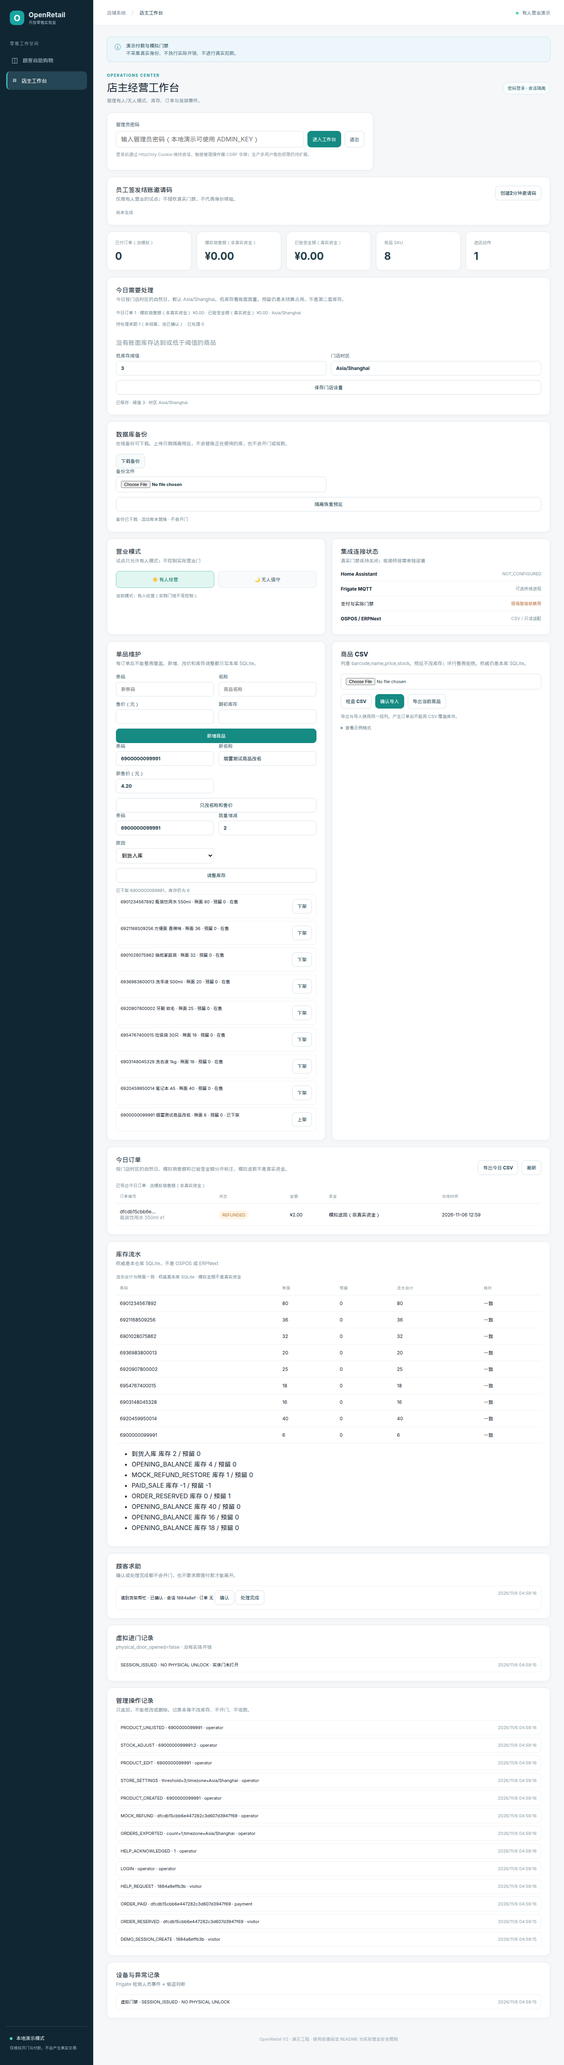
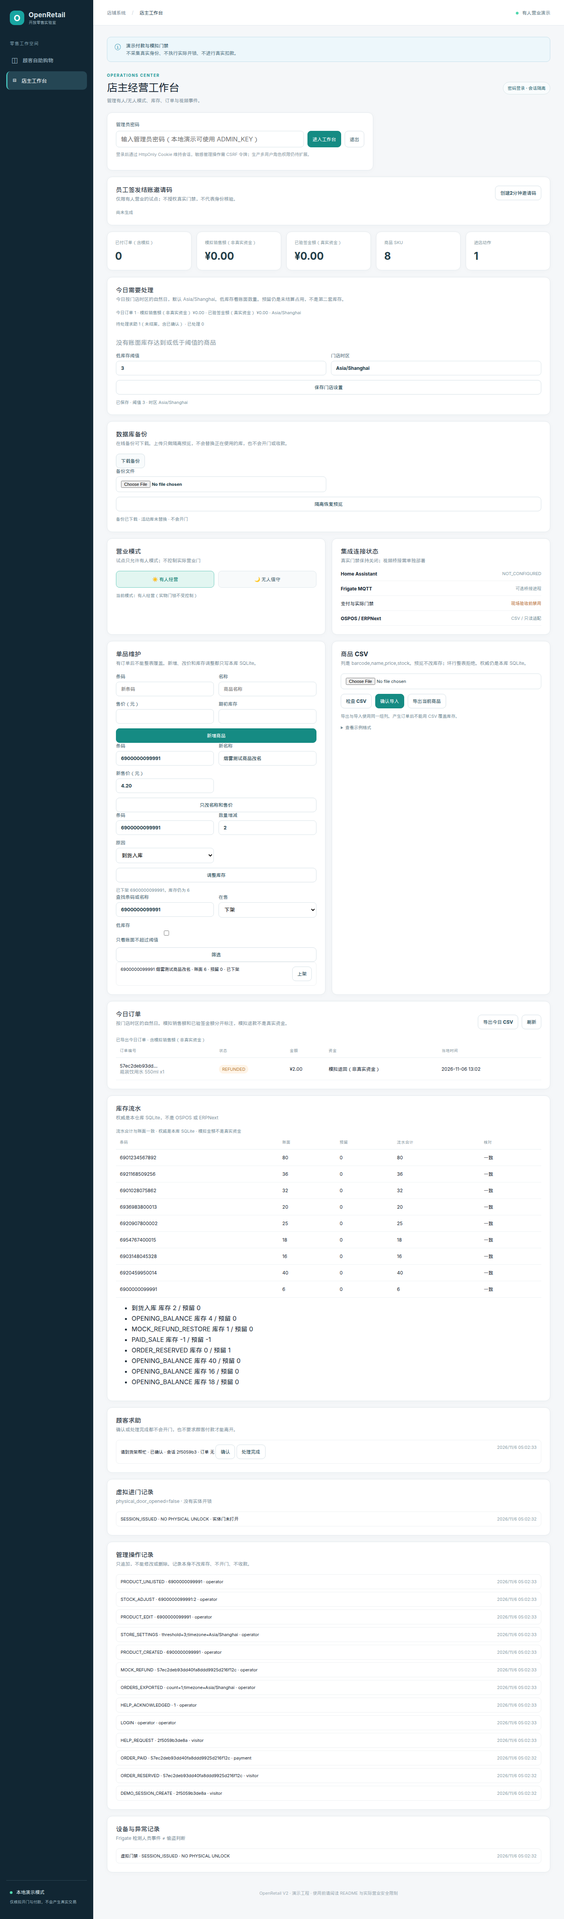
Let staff search and filter the admin catalog without changing stock.
Barcode or name search combines with listed, unlisted, and low-stock filters on the existing product list.

diff --git a/web/app.js b/web/app.js
@@ -42,7 +42,7 @@ async function showEntryStatus(){const status=await api('/api/entry/status',{gue
 async function createOrder(){if(!state.token)throw Error('先创建访客会话');const req={request_id:(crypto.randomUUID?.()||('demo-'+Date.now()+'-'+Math.random())),lines:[...state.cart].map(([product_id,quantity])=>({product_id,quantity}))};const r=await api('/api/orders',{method:'POST',body:req,guest:true});state.orderId=r.id;$('cancel-order-btn').disabled=false;$('pay-btn').disabled=state.paymentProvider==='DISABLED';$('payment-qr').hidden=true;showPay(r);await refreshMine();return r}
 async function confirmMock(){const r=await api('/api/payments/mock-confirm',{method:'POST',body:{order_id:state.orderId},guest:true});showPay(r);if(r.status==='PAID'){state.cart.clear();state.orderId='';$('cancel-order-btn').disabled=true;$('pay-btn').disabled=true;await loadProducts()}await refreshMine();return r}
 function fundLabel(order){if(order.status==='PAID'&&order.provider==='MOCK_NOT_REAL_MONEY')return '模拟销售额';if(Number(order.verified)===1)return '已验签真实资金';if(order.status==='REFUNDED'&&order.provider==='MOCK_NOT_REAL_MONEY')return '模拟退回';return '未收款'}
-async function adminRefresh(){if(!state.csrf)return;const [overview,orders,events,ledger,help,catalog,audit]=await Promise.all([api('/api/admin/overview',{admin:true}),api('/api/admin/orders?today=1',{admin:true}),api('/api/admin/events',{admin:true}),api('/api/admin/inventory-ledger',{admin:true}),api('/api/admin/help-requests',{admin:true}),api('/api/admin/products',{admin:true}),api('/api/admin/audit',{admin:true})]);$('admin-body').hidden=false;$('m-orders').textContent=overview.paid_orders;$('m-sales').textContent=money(overview.simulated_revenue_cents);$('m-real').textContent=money(overview.verified_revenue_cents);$('today-summary').textContent='今日订单 '+overview.today_order_count+' · 模拟销售额（非真实资金） '+money(overview.today_simulated_revenue_cents)+' · 已验签金额（真实资金） '+money(overview.today_verified_revenue_cents)+' · '+overview.store_timezone;$('low-stock-threshold').value=overview.low_stock_threshold;$('store-timezone').value=overview.store_timezone;$('admin-catalog').innerHTML=catalog.map(p=>`<div class="event"><span>${esc(p.barcode)} ${esc(p.name)} · 账面 ${p.stock} · 预留 ${p.reserved_stock} · ${p.active?'在售':'已下架'}</span><button class="btn secondary" type="button" data-listing-id="${p.id}" data-listing-barcode="${esc(p.barcode)}" data-listing-active="${p.active?0:1}">${p.active?'下架':'上架'}</button></div>`).join('')||'<p class="muted">没有商品</p>';$('audit-list').innerHTML=(audit.events||[]).map(e=>`<div class="event"><span>${esc(e.action)} · ${esc(e.detail)} · ${esc(e.actor)}</span><time>${time(e.created_at)}</time></div>`).join('')||'<p class="muted">没有操作记录</p>';$('help-attention').textContent='待处理求助 '+overview.help_needs_attention+'（未结案，含已确认） · 已处理 '+overview.help_resolved;$('low-stock-list').innerHTML=(overview.low_stock||[]).map(p=>`<div class="event"><span>${esc(p.barcode)} ${esc(p.name)} · 账面 ${p.stock} · 预留 ${p.reserved_stock} · 可售 ${p.available_stock}</span><time>阈值 ${overview.low_stock_threshold}</time></div>`).join('')||'<p class="muted">没有账面库存达到或低于阈值的商品</p>';$('m-products').textContent=overview.products;$('m-entries').textContent=overview.door_events;$('mode-info').textContent='当前模式：'+(overview.mode==='UNATTENDED'?'无人值守':'有人经营')+'（实物门锁不受控制）';$('ha-state').textContent=overview.home_assistant.status;$('mode-staffed').classList.toggle('selected',overview.mode==='STAFFED');$('mode-unattended').classList.toggle('selected',overview.mode==='UNATTENDED');const todayOrders=orders.orders||[];$('order-table').innerHTML=todayOrders.map(o=>{const refund=o.status==='PAID'&&o.provider==='MOCK_NOT_REAL_MONEY'&&Number(o.verified)!==1?`<button class="btn secondary" type="button" data-mock-refund="${esc(o.id)}">模拟退款</button>`:'';const label=o.money_label==='MOCK_NOT_REAL_MONEY'?'模拟销售额（非真实资金）':o.money_label==='VERIFIED_REAL_MONEY'?'已验签金额（真实资金）':o.money_label==='MOCK_REFUND_NOT_REAL_MONEY'?'模拟退回（非真实资金）':fundLabel(o);return `<tr><td title="${esc(o.id)}">${esc(o.id.slice(0,12))}…<div class="muted">${esc(o.items||'')}</div></td><td><span class="status ${o.status==='PAID'?'paid':''}">${esc(o.status)}</span></td><td>${money(o.total_cents)}</td><td>${esc(label)}</td><td>${esc(o.local_time||'')}</td><td>${refund}</td></tr>`}).join('')||'<tr><td colspan="6">今日没有订单</td></tr>';$('ledger-balance').textContent=(ledger.balanced?'流水合计与账面一致':'流水与账面不一致，需要人工核对')+' · 权威是本库 SQLite · 模拟金额不是真实资金';$('ledger-table').innerHTML=ledger.products.map(p=>`<tr><td>${esc(p.barcode)}</td><td>${p.stock}</td><td>${p.reserved_stock}</td><td>${p.ledger_stock}</td><td>${p.balanced?'一致':'不一致'}</td></tr>`).join('')||'<tr><td colspan="5">没有商品</td></tr>';$('ledger-moves').innerHTML=ledger.movements.slice(0,8).map(m=>`<li>${esc(m.reason)} 库存 ${m.stock_delta} / 预留 ${m.reserved_delta}</li>`).join('');const helpLabel={OPEN:'待处理',ACKNOWLEDGED:'已确认',RESOLVED:'已处理'};$('help-list').innerHTML=(help.requests||[]).map(h=>{const buttons=h.status==='RESOLVED'?'':`<button class="btn secondary" type="button" data-help-id="${esc(h.id)}" data-help-status="ACKNOWLEDGED">确认</button> <button class="btn secondary" type="button" data-help-id="${esc(h.id)}" data-help-status="RESOLVED">处理完成</button>`;return `<div class="event"><span>${esc(h.message)} · ${esc(helpLabel[h.status]||h.status)} · 会话 ${esc((h.session_id||'无').slice(0,8))} · 订单 ${esc((h.order_id||'无').slice(0,8))} ${buttons}</span><time>${time(h.created_at)}</time></div>`}).join('')||'<p class="muted">没有求助</p>';$('door-lock-note').textContent=events.physical_door_opened===false?'physical_door_opened=false · 没有实体开锁':'门状态异常';$('door-event-list').innerHTML=(events.door||[]).map(e=>`<div class="event"><span>${esc(e.result)} · ${esc(e.detail)} · 实体门未打开</span><time>${time(e.created_at)}</time></div>`).join('')||'<p class="muted">没有虚拟进门记录</p>';const incident=events.frigate.map(e=>({name:'Frigate 人员事件 · '+e.camera+' · '+e.event_type,t:e.created_at})),doors=events.door.map(e=>({name:'虚拟门禁 · '+e.result+' · '+e.detail,t:e.created_at}));$('event-list').innerHTML=[...incident,...doors].sort((a,b)=>b.t-a.t).slice(0,15).map(e=>`<div class="event"><span>${esc(e.name)}</span><time>${time(e.t)}</time></div>`).join('')||'<p class="muted">暂无设备事件</p>'}
+async function adminRefresh(){if(!state.csrf)return;const [overview,orders,events,ledger,help,catalog,audit]=await Promise.all([api('/api/admin/overview',{admin:true}),api('/api/admin/orders?today=1',{admin:true}),api('/api/admin/events',{admin:true}),api('/api/admin/inventory-ledger',{admin:true}),api('/api/admin/help-requests',{admin:true}),api(catalogQuery(),{admin:true}),api('/api/admin/audit',{admin:true})]);$('admin-body').hidden=false;$('m-orders').textContent=overview.paid_orders;$('m-sales').textContent=money(overview.simulated_revenue_cents);$('m-real').textContent=money(overview.verified_revenue_cents);$('today-summary').textContent='今日订单 '+overview.today_order_count+' · 模拟销售额（非真实资金） '+money(overview.today_simulated_revenue_cents)+' · 已验签金额（真实资金） '+money(overview.today_verified_revenue_cents)+' · '+overview.store_timezone;$('low-stock-threshold').value=overview.low_stock_threshold;$('store-timezone').value=overview.store_timezone;$('admin-catalog').innerHTML=catalog.map(p=>`<div class="event"><span>${esc(p.barcode)} ${esc(p.name)} · 账面 ${p.stock} · 预留 ${p.reserved_stock} · ${p.active?'在售':'已下架'}</span><button class="btn secondary" type="button" data-listing-id="${p.id}" data-listing-barcode="${esc(p.barcode)}" data-listing-active="${p.active?0:1}">${p.active?'下架':'上架'}</button></div>`).join('')||'<p class="muted">没有商品</p>';$('audit-list').innerHTML=(audit.events||[]).map(e=>`<div class="event"><span>${esc(e.action)} · ${esc(e.detail)} · ${esc(e.actor)}</span><time>${time(e.created_at)}</time></div>`).join('')||'<p class="muted">没有操作记录</p>';$('help-attention').textContent='待处理求助 '+overview.help_needs_attention+'（未结案，含已确认） · 已处理 '+overview.help_resolved;$('low-stock-list').innerHTML=(overview.low_stock||[]).map(p=>`<div class="event"><span>${esc(p.barcode)} ${esc(p.name)} · 账面 ${p.stock} · 预留 ${p.reserved_stock} · 可售 ${p.available_stock}</span><time>阈值 ${overview.low_stock_threshold}</time></div>`).join('')||'<p class="muted">没有账面库存达到或低于阈值的商品</p>';$('m-products').textContent=overview.products;$('m-entries').textContent=overview.door_events;$('mode-info').textContent='当前模式：'+(overview.mode==='UNATTENDED'?'无人值守':'有人经营')+'（实物门锁不受控制）';$('ha-state').textContent=overview.home_assistant.status;$('mode-staffed').classList.toggle('selected',overview.mode==='STAFFED');$('mode-unattended').classList.toggle('selected',overview.mode==='UNATTENDED');const todayOrders=orders.orders||[];$('order-table').innerHTML=todayOrders.map(o=>{const refund=o.status==='PAID'&&o.provider==='MOCK_NOT_REAL_MONEY'&&Number(o.verified)!==1?`<button class="btn secondary" type="button" data-mock-refund="${esc(o.id)}">模拟退款</button>`:'';const label=o.money_label==='MOCK_NOT_REAL_MONEY'?'模拟销售额（非真实资金）':o.money_label==='VERIFIED_REAL_MONEY'?'已验签金额（真实资金）':o.money_label==='MOCK_REFUND_NOT_REAL_MONEY'?'模拟退回（非真实资金）':fundLabel(o);return `<tr><td title="${esc(o.id)}">${esc(o.id.slice(0,12))}…<div class="muted">${esc(o.items||'')}</div></td><td><span class="status ${o.status==='PAID'?'paid':''}">${esc(o.status)}</span></td><td>${money(o.total_cents)}</td><td>${esc(label)}</td><td>${esc(o.local_time||'')}</td><td>${refund}</td></tr>`}).join('')||'<tr><td colspan="6">今日没有订单</td></tr>';$('ledger-balance').textContent=(ledger.balanced?'流水合计与账面一致':'流水与账面不一致，需要人工核对')+' · 权威是本库 SQLite · 模拟金额不是真实资金';$('ledger-table').innerHTML=ledger.products.map(p=>`<tr><td>${esc(p.barcode)}</td><td>${p.stock}</td><td>${p.reserved_stock}</td><td>${p.ledger_stock}</td><td>${p.balanced?'一致':'不一致'}</td></tr>`).join('')||'<tr><td colspan="5">没有商品</td></tr>';$('ledger-moves').innerHTML=ledger.movements.slice(0,8).map(m=>`<li>${esc(m.reason)} 库存 ${m.stock_delta} / 预留 ${m.reserved_delta}</li>`).join('');const helpLabel={OPEN:'待处理',ACKNOWLEDGED:'已确认',RESOLVED:'已处理'};$('help-list').innerHTML=(help.requests||[]).map(h=>{const buttons=h.status==='RESOLVED'?'':`<button class="btn secondary" type="button" data-help-id="${esc(h.id)}" data-help-status="ACKNOWLEDGED">确认</button> <button class="btn secondary" type="button" data-help-id="${esc(h.id)}" data-help-status="RESOLVED">处理完成</button>`;return `<div class="event"><span>${esc(h.message)} · ${esc(helpLabel[h.status]||h.status)} · 会话 ${esc((h.session_id||'无').slice(0,8))} · 订单 ${esc((h.order_id||'无').slice(0,8))} ${buttons}</span><time>${time(h.created_at)}</time></div>`}).join('')||'<p class="muted">没有求助</p>';$('door-lock-note').textContent=events.physical_door_opened===false?'physical_door_opened=false · 没有实体开锁':'门状态异常';$('door-event-list').innerHTML=(events.door||[]).map(e=>`<div class="event"><span>${esc(e.result)} · ${esc(e.detail)} · 实体门未打开</span><time>${time(e.created_at)}</time></div>`).join('')||'<p class="muted">没有虚拟进门记录</p>';const incident=events.frigate.map(e=>({name:'Frigate 人员事件 · '+e.camera+' · '+e.event_type,t:e.created_at})),doors=events.door.map(e=>({name:'虚拟门禁 · '+e.result+' · '+e.detail,t:e.created_at}));$('event-list').innerHTML=[...incident,...doors].sort((a,b)=>b.t-a.t).slice(0,15).map(e=>`<div class="event"><span>${esc(e.name)}</span><time>${time(e.t)}</time></div>`).join('')||'<p class="muted">暂无设备事件</p>'}
 async function run(fn){try{await fn()}catch(e){toast(e.message);console.error(e)}}
 document.addEventListener('click',e=>{const refund=e.target.closest('[data-mock-refund]');if(refund){run(async()=>{const r=await api('/api/admin/orders/'+refund.dataset.mockRefund+'/mock-refund',{admin:true,method:'POST'});toast(r.real_money?'异常：模拟退款不应产生真实资金':'模拟退款已回补库存，不是微信退款');await adminRefresh();await loadProducts()});return}const listing=e.target.closest('[data-listing-id]');if(listing){run(async()=>{const r=await api('/api/admin/products/'+listing.dataset.listingId+'/listing',{admin:true,method:'POST',body:{active:listing.dataset.listingActive==='1'}});if(r.stock_changed||r.physical_door_opened||r.real_door_enabled)throw Error('上下架不应改库存或开门');$('product-status').textContent=(r.active?'已上架':'已下架')+' '+r.barcode+'，库存仍为 '+r.stock;await adminRefresh();await loadProducts();toast(r.active?'已上架':'已下架')});return}const helpAction=e.target.closest('[data-help-status]');if(helpAction){run(async()=>{const r=await api('/api/admin/help-requests/'+helpAction.dataset.helpId+'/status',{admin:true,method:'POST',body:{status:helpAction.dataset.helpStatus}});if(r.physical_door_opened||r.payment_required_to_leave||r.door_authorized)throw Error('处理求助不应开门或要求付款');toast(r.status==='RESOLVED'?'求助已处理，门未打开':'已确认求助，门未打开');await adminRefresh()});return}const nav=e.target.closest('[data-panel]');if(nav){document.querySelectorAll('.nav').forEach(n=>n.classList.toggle('active',n===nav));['shop','admin'].forEach(p=>$('panel-'+p).hidden=p!==nav.dataset.panel);$('current-title').textContent=nav.dataset.panel==='shop'?'顾客自助购物':'店主工作台';if(nav.dataset.panel==='admin')run(adminRefresh)}const addButton=e.target.closest('[data-add]');if(addButton)add(addButton.dataset.add);const minus=e.target.closest('[data-minus]');if(minus){if(state.orderId){toast('请先完成或取消当前订单');return}const id=Number(minus.dataset.minus);const q=(state.cart.get(id)||0)-1;if(q<=0)state.cart.delete(id);else state.cart.set(id,q);state.orderId='';$('pay-btn').disabled=true;renderCart()}});
 $('entry-btn').onclick=()=>run(async()=>{const s=await api('/api/entry',{method:'POST'});state.token=s.guest_token;sessionStorage.setItem('retail_guest',state.token);$('entry-result').textContent='访客会话创建成功（未进行身份核验）；有效期至 '+time(s.expires_at);$('door-btn').disabled=false;await showEntryStatus();renderCart();toast('演示访客会话已创建')});
@@ -111,7 +111,9 @@ $('store-settings-form').onsubmit=e=>{e.preventDefault();run(async()=>{const thr
 $('orders-export').onclick=()=>run(async()=>{const headers={};if(state.csrf)headers['X-CSRF-Token']=state.csrf;const res=await fetch('/api/admin/orders.csv',{credentials:'same-origin',cache:'no-store',headers});if(!res.ok)throw Error('今日订单导出失败');const text=await res.text();if(!text.startsWith('order_id,local_time,timezone,status,amount_yuan,payment_label,real_money,items'))throw Error('导出列不正确');const link=document.createElement('a');link.href=URL.createObjectURL(new Blob([text],{type:'text/csv'}));link.download='openretail-orders-today.csv';link.click();URL.revokeObjectURL(link.href);$('order-export-status').textContent='已导出今日订单 · '+(text.includes('MOCK_NOT_REAL_MONEY')?'含模拟销售额（非真实资金）':'模拟与已验签分开标注');toast('今日订单已导出')});
 $('backup-download').onclick=()=>run(async()=>{const headers={};if(state.csrf)headers['X-CSRF-Token']=state.csrf;const res=await fetch('/api/admin/backup',{credentials:'same-origin',cache:'no-store',headers});if(!res.ok)throw Error('备份下载失败');const blob=await res.blob();if(!blob.size)throw Error('备份内容为空');const link=document.createElement('a');link.href=URL.createObjectURL(blob);link.download='openretail-backup.sqlite3';link.click();URL.revokeObjectURL(link.href);$('restore-report').textContent='备份已下载 · 活动库未替换 · 不会开门';toast('备份已下载')});
 $('restore-preview-form').onsubmit=e=>{e.preventDefault();run(async()=>{const file=$('restore-file').files?.[0];if(!file)throw Error('请选择备份文件');const data=new FormData();data.append('file',file);const headers={};if(state.csrf)headers['X-CSRF-Token']=state.csrf;const res=await fetch('/api/admin/restore-preview',{method:'POST',credentials:'same-origin',headers,body:data});const body=await res.json();if(!res.ok)throw Error(typeof body.detail==='string'?body.detail:'隔离预览失败');if(body.live_replaced||body.physical_door_opened||body.real_door_enabled)throw Error('恢复预览不应替换活动库或开门');$('restore-report').textContent='隔离预览 · integrity_check='+body.integrity+' · 商品 '+body.products+' · 订单 '+body.orders+' · 活动库未替换';toast('只预览了隔离副本')})};
+function catalogQuery(){const params=new URLSearchParams();const q=($('catalog-query').value||'').trim();const listing=$('catalog-listing').value||'all';if(q)params.set('q',q);if(listing!=='all')params.set('listing',listing);if($('catalog-low-stock').checked)params.set('low_stock','1');const text=params.toString();return '/api/admin/products'+(text?'?'+text:'')}
 async function adminProduct(barcode){const rows=await api('/api/admin/products',{admin:true});const found=rows.find(item=>item.barcode===barcode);if(!found)throw Error('找不到条码 '+barcode);return found}
+$('catalog-filter').onsubmit=e=>{e.preventDefault();run(async()=>{await adminRefresh();toast('已按条码或名称筛选，库存未改')})};
 $('product-form').onsubmit=e=>{e.preventDefault();run(async()=>{const f=new FormData(e.target);const r=await api('/api/admin/products',{admin:true,method:'POST',body:{barcode:String(f.get('barcode')).trim(),name:String(f.get('name')).trim(),price_cents:Math.round(Number(f.get('price'))*100),stock:Number(f.get('stock')),active:true}});$('product-status').textContent='已新增 '+r.barcode+'，期初库存 '+r.stock+' 已入账';e.target.reset();await adminRefresh();await loadProducts();toast('商品已新增')})};
 $('edit-form').onsubmit=e=>{e.preventDefault();run(async()=>{const f=new FormData(e.target);const before=await adminProduct(String(f.get('barcode')).trim());const r=await api('/api/admin/products/'+before.id,{admin:true,method:'PATCH',body:{name:String(f.get('name')).trim(),price_cents:Math.round(Number(f.get('price'))*100)}});if(r.stock!==before.stock||r.stock_changed)throw Error('改价不应改库存');$('product-status').textContent='已改名称和售价，库存仍为 '+r.stock;await loadProducts();toast('名称和售价已更新')})};
 $('adjust-form').onsubmit=e=>{e.preventDefault();run(async()=>{const f=new FormData(e.target);const product=await adminProduct(String(f.get('barcode')).trim());const r=await api('/api/admin/products/'+product.id+'/adjust-stock',{admin:true,method:'POST',body:{quantity_delta:Number(f.get('delta')),reason:String(f.get('reason'))}});$('product-status').textContent='库存已调整为 '+r.stock+'，流水已记录';await adminRefresh();await loadProducts();toast('库存已调整')})};

diff --git a/web/index.html b/web/index.html
@@ -58,6 +58,7 @@
             <form id="edit-form" class="product-form"><label>条码<input name="barcode" placeholder="已有条码" required></label><label>新名称<input name="name" required></label><label>新售价（元）<input name="price" type="number" min="0.01" step="0.01" required></label><button class="btn secondary" type="submit">只改名称和售价</button></form>
             <form id="adjust-form" class="product-form"><label>条码<input name="barcode" placeholder="已有条码" required></label><label>数量增减<input name="delta" type="number" step="1" required></label><label>原因<select name="reason"><option>盘点修正</option><option>商品报损</option><option>到货入库</option></select></label><button class="btn secondary" type="submit">调整库存</button></form>
             <div class="inline-note" id="product-status">重复条码会被拒绝。改价和上下架都不会改库存。</div>
+            <form id="catalog-filter" class="product-form"><label>查找条码或名称<input id="catalog-query" name="q" placeholder="输入一部分即可" autocomplete="off"></label><label>在售<select id="catalog-listing" name="listing"><option value="all">全部</option><option value="listed">上架</option><option value="unlisted">下架</option></select></label><label>低库存<input id="catalog-low-stock" type="checkbox">只看账面不超过阈值</label><button class="btn secondary" type="submit">筛选</button></form>
             <div id="admin-catalog" class="events"></div></article>
           <article class="surface"><div class="surface-heading"><div><h2>商品 CSV</h2><p>列是 barcode,name,price,stock。预览不改库存；坏行整表拒绝。权威仍是本库 SQLite。</p></div></div><input type="file" id="csv-file" accept=".csv,text/csv"><div class="actions"><button class="btn secondary" id="csv-preview" type="button">检查 CSV</button><button class="btn primary" id="csv-import" type="button">确认导入</button><button class="btn secondary" id="csv-export" type="button">导出当前商品</button></div><div id="csv-status" class="inline-note">导出与导入使用同一组列。产生订单后不能用 CSV 覆盖库存。</div><details><summary>查看示例格式</summary><pre>barcode,name,price,stock
 6900000010001,演示商品,12.50,30</pre></details></article>

diff --git a/tests/test_catalog_filter.py b/tests/test_catalog_filter.py
@@ -1,0 +1,56 @@
+"""Admin catalog search and filters stay read-only and use the store low-stock threshold."""
+
+
+def barcodes(rows):
+    return {row['barcode'] for row in rows}
+
+
+def test_search_and_filters_do_not_change_stock(client, admin_header):
+    assert client.get('/api/admin/products?q=水').status_code==401
+    assert client.get('/api/admin/products?listing=unlisted').status_code==401
+    assert client.get('/api/admin/products?low_stock=1').status_code==401
+    low=client.post('/api/admin/products', headers=admin_header, json={
+        'barcode':'6900000070007', 'name':'筛选低库存', 'price_cents':100, 'stock':5, 'active':True}).json()
+    high=client.post('/api/admin/products', headers=admin_header, json={
+        'barcode':'6900000070008', 'name':'筛选充足', 'price_cents':100, 'stock':6, 'active':True}).json()
+    hidden=client.post('/api/admin/products', headers=admin_header, json={
+        'barcode':'6900000070009', 'name':'筛选下架', 'price_cents':100, 'stock':5, 'active':True}).json()
+    assert client.post('/api/admin/products/'+str(hidden['id'])+'/listing', headers=admin_header,
+                       json={'active':False}).json()['stock']==5
+    with client.app.state.db.connect() as conn:
+        stock=conn.execute('SELECT COALESCE(SUM(stock),0) n FROM products').fetchone()['n']
+        reserved=conn.execute('SELECT COALESCE(SUM(reserved_stock),0) n FROM products').fetchone()['n']
+        movements=conn.execute('SELECT COUNT(*) n FROM stock_movements').fetchone()['n']
+        doors=conn.execute('SELECT COUNT(*) n FROM door_events').fetchone()['n']
+    by_name=client.get('/api/admin/products?q=筛选低库存', headers=admin_header)
+    assert by_name.status_code==200
+    assert barcodes(by_name.json())=={'6900000070007'}
+    by_code=client.get('/api/admin/products?q=70008', headers=admin_header).json()
+    assert barcodes(by_code)=={'6900000070008'}
+    assert barcodes(client.get('/api/admin/products?q=%', headers=admin_header).json())==set()
+    everything=barcodes(client.get('/api/admin/products', headers=admin_header).json())
+    assert {'6900000070007','6900000070008','6900000070009','6901234567892'}<=everything
+    listed=barcodes(client.get('/api/admin/products?listing=listed', headers=admin_header).json())
+    unlisted=barcodes(client.get('/api/admin/products?listing=unlisted', headers=admin_header).json())
+    assert '6900000070007' in listed and '6900000070008' in listed and '6900000070009' not in listed
+    assert unlisted=={'6900000070009'}
+    low_only=barcodes(client.get('/api/admin/products?low_stock=1', headers=admin_header).json())
+    assert '6900000070007' in low_only and '6900000070009' in low_only and '6900000070008' not in low_only
+    combined=barcodes(client.get('/api/admin/products?q=筛选&listing=unlisted', headers=admin_header).json())
+    assert combined=={'6900000070009'}
+    named_low=barcodes(client.get('/api/admin/products?q=筛选&low_stock=1', headers=admin_header).json())
+    assert named_low=={'6900000070007','6900000070009'}
+    assert client.get('/api/admin/products?q=筛选充足&low_stock=1', headers=admin_header).json()==[]
+    assert client.get('/api/admin/products?listing=nope', headers=admin_header).status_code==422
+    overview=client.get('/api/admin/overview', headers=admin_header).json()
+    assert overview['low_stock_threshold']==5
+    assert '6900000070007' in {row['barcode'] for row in overview['low_stock']}
+    assert '6900000070008' not in {row['barcode'] for row in overview['low_stock']}
+    assert overview['real_door_enabled'] is False and overview['today_verified_revenue_cents']==0
+    with client.app.state.db.connect() as conn:
+        assert conn.execute('SELECT COALESCE(SUM(stock),0) n FROM products').fetchone()['n']==stock
+        assert conn.execute('SELECT COALESCE(SUM(reserved_stock),0) n FROM products').fetchone()['n']==reserved
+        assert conn.execute('SELECT COUNT(*) n FROM stock_movements').fetchone()['n']==movements
+        assert conn.execute('SELECT COUNT(*) n FROM door_events').fetchone()['n']==doors
+        assert conn.execute('SELECT stock,active FROM products WHERE id=?',(low['id'],)).fetchone()['stock']==5
+        assert conn.execute('SELECT active FROM products WHERE id=?',(hidden['id'],)).fetchone()['active']==0

diff --git a/openretail/main.py b/openretail/main.py
@@ -57,6 +57,11 @@ def store_zone(c):
     try:return name,ZoneInfo(name)
     except Exception:abort(500,'门店时区配置无效')
 
+def contains_like(text:str)->str:
+    # Literal substring. % and _ in a barcode or name stay characters, not wildcards.
+    escaped=text.replace('\\','\\\\').replace('%','\\%').replace('_','\\_')
+    return '%'+escaped+'%'
+
 def format_local(ts,zone:ZoneInfo)->str:
     if ts is None:return ''
     return datetime.fromtimestamp(int(ts),zone).strftime('%Y-%m-%d %H:%M')
@@ -858,8 +863,28 @@ def create_app(settings:Settings|None=None)->FastAPI:
                 'physical_door_opened':False,'real_door_enabled':False}
 
     @app.get('/api/admin/products',dependencies=[Depends(admin)])
-    def admin_products():
-        with db.connect() as c:return [asdict(r) for r in c.execute('SELECT * FROM products ORDER BY id')]
+    def admin_products(q:str=Query(default=''), listing:str=Query(default='all'), low_stock:bool=Query(default=False)):
+        """Find SKUs already in this SQLite catalog. Read-only: no stock, door, or payment change."""
+        if listing not in ('all','listed','unlisted'):
+            abort(422,'筛选只能是 all、listed 或 unlisted')
+        needle=q.strip()
+        if len(needle)>80:abort(422,'查找内容过长')
+        with db.connect() as c:
+            threshold_row=c.execute("SELECT value FROM store_settings WHERE key='low_stock_threshold'").fetchone()
+            threshold=int(threshold_row['value']) if threshold_row else 5
+            sql='SELECT * FROM products WHERE 1=1'
+            params=[]
+            if needle:
+                sql+=" AND (barcode LIKE ? ESCAPE '\\' OR name LIKE ? ESCAPE '\\')"
+                like=contains_like(needle)
+                params.extend([like,like])
+            if listing=='listed':sql+=' AND active=1'
+            elif listing=='unlisted':sql+=' AND active=0'
+            if low_stock:
+                sql+=' AND stock<=?'
+                params.append(threshold)
+            rows=[asdict(r) for r in c.execute(sql+' ORDER BY id',params)]
+        return rows
 
     @app.post('/api/admin/products')
     def create_product(payload:ProductInput, actor:str=Depends(admin)):

diff --git a/scripts/ui_bridge_smoke.py b/scripts/ui_bridge_smoke.py
@@ -101,6 +101,10 @@ with TestClient(create_app(cfg)) as backend,sync_playwright() as pw:
  p.locator('[data-listing-barcode="6900000099991"]').click()
  p.wait_for_function("document.querySelector('#product-status').textContent.includes('已下架') && document.querySelector('#product-status').textContent.includes('库存仍为 6')")
  p.wait_for_function("document.querySelector('#audit-list').textContent.includes('PRODUCT_UNLISTED') && document.querySelector('#audit-list').textContent.includes('6900000099991')")
+ p.locator('#catalog-query').fill('6900000099991')
+ p.locator('#catalog-listing').select_option('unlisted')
+ p.locator('#catalog-filter button[type="submit"]').click()
+ p.wait_for_function("(()=>{const t=document.querySelector('#admin-catalog').textContent;return t.includes('6900000099991')&&t.includes('已下架')&&!t.includes('6901234567892')})()")
  p.locator('[data-panel="shop"]').click()
  p.locator('#barcode').fill('6900000099991')
  p.locator('#scan-form button[type="submit"]').click()

diff --git a/docs/PROJECT_STATUS.md b/docs/PROJECT_STATUS.md
@@ -4,6 +4,18 @@
 
 完全无人值守经营仍是 **NOT_APPROVED**。示例配置里的真实支付和实体开锁都是关闭的。
 
+## 本增量（管理端商品查找和筛选）
+
+已在代码和测试里做到，并在本机复跑：
+
+- 仍是原来的管理商品列表 `GET /api/admin/products`，没有第二套目录。空的查找条件返回原来的全部商品。
+- 可以按条码或名称做子串查找，并筛选全部、上架、下架。低库存用 `store_settings.low_stock_threshold`（默认 5）比较账面 `products.stock`，`stock<=阈值` 的商品会出现，更高的不会。查找可以和筛选一起用。下架且账面不超过阈值的商品也会出现在低库存筛选里；今日摘要里的低库存列表仍只含在售商品。
+- 这是管理员接口。未登录返回 401。查询参数只有查找词和筛选条件，不带管理员密钥。查找和筛选不改库存、不改流水、不开门、不调用支付机构。
+
+`/tmp/openretail-venv/bin/python -m pytest -q`（工作目录 `/workspace`，Python 3.12.3）：**59 passed，1 warning，5.91s，退出码 0**。警告仍是 Starlette 的 `httpx` TestClient 弃用提示。59 = 上一轮 58 + 本增量 1。
+
+`scripts/ui_bridge_smoke.py` 在去掉密钥环境变量后退出码 0。下架条码 `6900000099991` 之后，按该条码并选择「下架」筛选，商品列表含该条码和「已下架」，不含种子条码 `6901234567892`。390 宽 `scrollWidth` 390，1440 宽 `scrollWidth` 1440，`pageerror` 为空。这仍是 Chrome 到 TestClient 的桥，不是真机。
+
 ## 本增量（今日订单列表和 CSV）
 
 已在代码和测试里做到，并在本机复跑：
